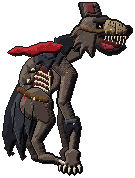
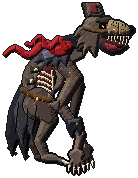
Verger beast: polish (fur tone, elbow, far arm, rags, scarf)
Claude-Session: https://claude.ai/code/session_01Jpd5tdDJTR7BVueAYV1KDM

Changed region(s): [[0.0, 0.0, 0.9778, 1.0], [0.8889, 0.2809, 0.9185, 0.309], [0.7704, 0.2528, 0.8, 0.2809]]

diff --git a/ArtSource/make_verger_beast_coat.py b/ArtSource/make_verger_beast_coat.py
@@ -14,6 +14,7 @@ COATL = ramp("#0c0c0f", "#1a1a20", "#2a2a33", "#3e3e49", "#58586a")          # a
 def cloth(build, cols, seed, **kw):
     m = Mask(S); build(m); return shade(m, cols, tex=kw.pop('tex', 0.16), seed=seed, **kw)
 X = lambda x: int(round(x * K)); YY = lambda y: int(round((y + OY) * K))
+SCARF = None
 def coat_layers():
     back, front, cuff = [], [], []
     # the tail-coat: two layers of ragged strips hanging off the waist and dragging behind
@@ -21,8 +22,8 @@ def coat_layers():
     back.append(cloth(lambda m: PL(m, [(28, 50), (38, 56), (37, 72), (33, 84), (30, 76), (27, 90), (23, 78), (21, 66), (24, 58)]), COAT, 32, depth=2.6))
     back.append(cloth(lambda m: PL(m, [(33, 56), (37, 58), (36, 72), (34, 66)]), COATL, 33, depth=1.2, gain=0.9))                                      # a lit fold
     # shoulder rags: what is left of the coat's shoulders and lapel
-    cuff.append(cloth(lambda m: PL(m, [(38, 27), (49, 22), (57, 29), (53, 37), (50, 33), (46, 40), (42, 34), (37, 36)]), COAT, 34, depth=2.4))
-    cuff.append(cloth(lambda m: PL(m, [(40, 28), (48, 25), (52, 30), (46, 32)]), COATL, 35, depth=1.2, gain=0.9))
+    cuff.append(cloth(lambda m: PL(m, [(36, 26), (49, 20), (59, 28), (56, 37), (52, 33), (50, 38), (46, 33), (43, 37), (40, 33), (37, 35), (34, 33)]), COATL, 34, depth=2.6, gain=1.05))
+    cuff.append(cloth(lambda m: PL(m, [(40, 27), (49, 23), (54, 28), (47, 31), (42, 32)]), ramp("#18181e", "#2a2a33", "#42424f", "#5e5e70", "#7e7e92"), 35, depth=1.2, gain=0.95))
     # the belt: leather across the narrow waist
     belt = Mask(S); T(belt, [(27, 52), (34, 56), (45, 59)], [3.6, 3.6, 3.6]); cuff.append(shade(belt, LEATHER, depth=1.2, tex=0.2, seed=36))
     # the cuff on the near wrist: a ragged sleeve end with a button
@@ -31,15 +32,25 @@ def coat_layers():
     # the collar: high and ragged, round the base of the neck
     cuff.append(cloth(lambda m: PL(m, [(47, 25), (53, 17), (60, 15), (68, 18), (66, 27), (62, 24), (58, 30), (54, 25), (51, 31)]), COATD, 39, depth=2.0))
     # the scarf: flung back off the neck, two torn tails
-    sc = Mask(S); PL(sc, [(56, 22), (48, 20), (40, 21), (32, 24), (25, 23), (19, 27), (24, 29), (30, 28), (36, 30), (44, 27), (54, 27)]); cuff.append(shade(sc, RED, depth=2.0, tex=0.22, seed=40))
+    import math
+    def tail(x0, y0, x1, wid, sag, phase, seed, drop):
+        n = 14; pts = [(x0 + (x1 - x0) * i / n, y0 + sag * (i / n) ** 1.5 * 10 + 3.2 * math.sin(i * 0.9 + phase) + drop * (i / n)) for i in range(n + 1)]
+        ws = [wid * (1 - 0.65 * (i / n)) + 1 for i in range(n + 1)]
+        m = Mask(S); T(m, pts, ws); return shade(m, RED, depth=2.0, tex=0.2, seed=seed), pts
+    t1, p1 = tail(57, 23, 16, 6.2, 0.2, 0.0, 40, 3); cuff.append(t1)
+    t2, p2 = tail(56, 22, 30, 3.8, 0.0, 2.4, 41, -3); cuff.append(t2)
+    global SCARF; SCARF = (p1, p2)
     return back, front, cuff
 def beast():
     far, near = lm.limbs_pair(); back, front, cuff = coat_layers()
-    im = Image.new("RGBA", S, (0, 0, 0, 0)); im.alpha_composite(far); im.alpha_composite(bd.trunk())
+    im = Image.new("RGBA", S, (0, 0, 0, 0)); im.alpha_composite(far); im.alpha_composite(lm.tone(bd.trunk()))
     for l in back: im.alpha_composite(l)
     for l in front: im.alpha_composite(l)
     im.alpha_composite(near)
     for l in cuff: im.alpha_composite(l)
+    for pts in SCARF:                                                                                                                           # folds: dark creases across the cloth and lit edges
+        for i in range(3, len(pts) - 1, 3):
+            x, y = pts[i]; px(im, [(X(x), YY(y) - 2 + k) for k in range(0, 5)], RED[1]); px(im, [(X(x) + 1, YY(y) - 2 + k) for k in range(0, 3)], RED[4])
     # hand-placed detail: the clasp and vials on the belt, buttons down the coat, torn hems, stitches, blood
     for (x, c) in ((30, RED[3]), (35, RED[2]), (40, RED[3]), (45, RED[2])): y0 = 52 + (x - 27) * 0.39 + 2.2; px(im, [(X(x), YY(y0) + k) for k in range(4)], c); px(im, [(X(x), YY(y0) - 1)], BRASS[3])
     px(im, [(X(36) + dx, YY(56.4) + dy) for dx in range(2) for dy in range(3)], BRASS[4]); px(im, [(X(36), YY(57))], BRASS[2])

diff --git a/ArtSource/make_verger_beast_limbs.py b/ArtSource/make_verger_beast_limbs.py
@@ -24,6 +24,7 @@ def limb(cols, haunch, leg, lw, paw, arm, aw, hand, near, seed):
     L.append(shade(cl, CLAW, depth=1.0))
     part(lambda m: T(m, arm, aw), cols, fur=150 if near else 80, tex=0.14, seed=s + 3, depth=3.4, bias=-0.05)                                      # the arm
     if near: part(lambda m: T(m, arm[:3], [aw[0] * 0.7, aw[1] * 0.7, aw[2] * 0.7]), MUSC, fur=20, depth=1.8, tex=0.1, seed=s + 4, gain=0.82)          # the lit muscle on the upper arm
+    if near: part(lambda m: PL(m, [(52, 58), (44, 62), (51, 67)]), FUR, fur=10, depth=1.2, seed=s + 6)                                                      # the elbow, a bony point
     hx, hy = hand                                                                                                                               # the hand: a fur-backed palm, four long fingers, bone claws
     part(lambda m: (E(m, hx, hy, 4.8, 3.6), [T(m, [(hx + dx * 0.4, hy + 1), (hx + dx * 1.3, hy + 8 + (1.5 if i in (1, 2) else 0))], [2.8, 1.6]) for i, dx in enumerate((-3.6, -1.2, 1.2, 3.6))]), cols, fur=26, depth=1.6, tex=0.1, seed=s + 5)
     cl = Mask(S)
@@ -31,12 +32,26 @@ def limb(cols, haunch, leg, lw, paw, arm, aw, hand, near, seed):
     L.append(shade(cl, CLAW, depth=1.0))
     im = paint(S, L)
     return outline(im, DARK[0]) if near else im                                                          # a dark edge on the near limbs so they stand off the body
+def tone(im):
+    """fur tone: the back darker, the chest and belly warmer and lighter"""
+    a = np.array(im).astype(float); H, W = a.shape[:2]; al = a[:, :, 3] > 0
+    for x in range(W):
+        ys = np.where(al[:, x])[0]
+        if len(ys) == 0: continue
+        t0 = ys[0]
+        for y in ys[:12]: a[y, x, :3] *= 0.74 + 0.022 * (y - t0)
+    for y in range(H):
+        xs = np.where(al[y, :])[0]
+        if len(xs) == 0: continue
+        x1 = xs[-1]
+        for x in xs[-9:]: a[y, x, :3] *= 1.0 + 0.016 * (9 - (x1 - x)); a[y, x, 0] *= 1.04
+    return Image.fromarray(np.clip(a, 0, 255).astype(np.uint8), "RGBA")
 def limbs_pair():
-    far = limb(FURD, (36, 62, 8.5, 8.5), [(34, 60), (41, 74), (34, 88), (38, 96)], [12, 8, 5, 4], (41, 97), [(52, 32), (58, 52), (55, 74), (59, 92)], [9, 6.4, 4.6, 3.8], (59, 94), False, 40)
-    near = limb(FUR, (38, 62, 10.5, 10), [(37, 58), (45, 72), (38, 86), (42, 96)], [15, 10, 6, 4.8], (45, 97.5), [(50, 30), (60, 42), (56, 60), (64, 80), (62, 94)], [11, 9, 6.4, 5.4, 4.6], (62, 95), True, 60)
-    return far, near
+    far = limb(FURD, (36, 62, 8.5, 8.5), [(34, 60), (41, 74), (34, 88), (38, 96)], [12, 8, 5, 4], (41, 97), [(56, 32), (65, 50), (60, 72), (69, 90)], [9, 6.4, 4.6, 3.8], (69, 92), False, 40)
+    near = limb(FUR, (38, 62, 10.5, 10), [(37, 58), (45, 72), (38, 86), (42, 96)], [15, 10, 6, 4.8], (45, 97.5), [(50, 30), (62, 44), (52, 62), (66, 82), (63, 94)], [11, 9, 6.4, 5.4, 4.6], (63, 95), True, 60)
+    return tone(far), tone(near)
 def beast_bare():
-    far, near = limbs_pair(); im = Image.new("RGBA", S, (0, 0, 0, 0)); im.alpha_composite(far); im.alpha_composite(bd.trunk()); im.alpha_composite(near)
+    far, near = limbs_pair(); im = Image.new("RGBA", S, (0, 0, 0, 0)); im.alpha_composite(far); im.alpha_composite(tone(bd.trunk())); im.alpha_composite(near)
     return bd.with_head(im)
 if __name__ == "__main__":
     f = crop(beast_bare(), 2); f.save(os.path.join(OUT, "verger_beast_limbs.png"))

diff --git a/ArtSource/WORK_LOG.md b/ArtSource/WORK_LOG.md
@@ -6860,3 +6860,4 @@ Yan: "give me the concept for that boss we talked about after this". `ArtSource/
 - 9ag beast PART 1b: the leather mask stays on (stitched cup over the upper muzzle with the fangs bursting through, strap round the head, brass buckle). PART 2: the trunk (`make_verger_beast_body.py` -> `boss_concepts/verger_beast_body(_5x).png`): shoulder hump, chest, muscle, torn flank with five ribs, spine tufts and knuckles, neck ruff; head attached. Next: legs, arms, coat, scarf, belt.
 - 9ag beast PART 3+4: legs and arms (`make_verger_beast_limbs.py` -> `boss_concepts/verger_beast_limbs(_5x).png`): haunch + long digitigrade shin + paw with bone claws, long arms with fur-backed hands and bone claws, dark edge on the near limbs. Reads as a hunched werewolf now. Weak: arm is a straight tube, thigh muscle a swirl, no coat yet.
 - 9ag beast PART 5: the coat (`make_verger_beast_coat.py` -> `boss_concepts/verger_beast_coat(_5x).png`): ragged tail-coat in two layers, shoulder rags, collar, sleeve cuff with a button, the vial belt with brass clasp, the red scarf flung back. Weak: scarf is a flat slab, shoulder rags barely read, fur one brown everywhere. Concept only.
+- 9ag beast polish: fur tone (back darker, chest/belly warmer), bent near arm with a bony elbow, far arm forward and visible, shoulder rags in a lighter cloth with torn edge (ribs stay visible), scarf as two wavy folded tails. Still weak: scarf reads slightly worm-like, hands/paws cluster at the bottom right. Concept only.
